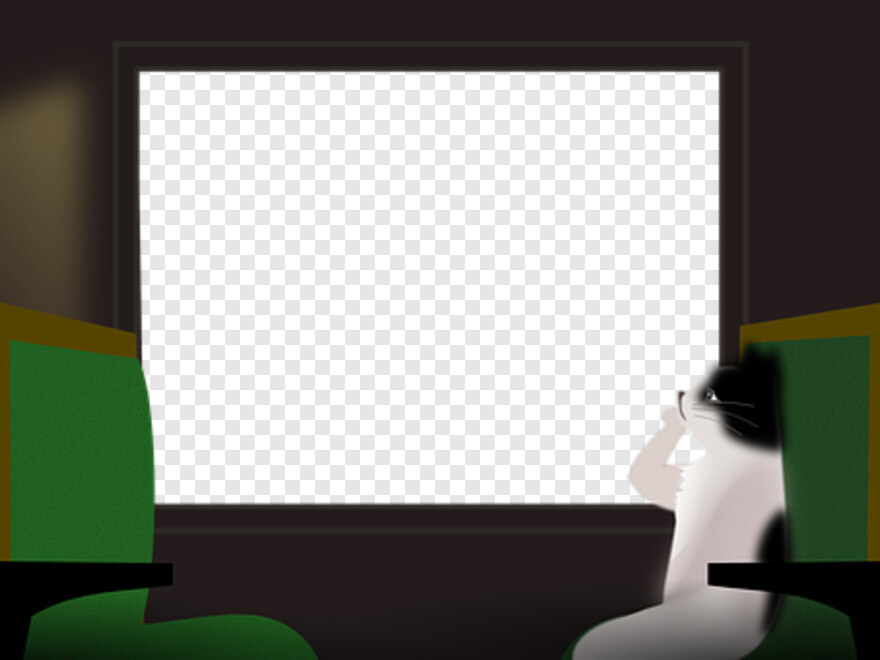
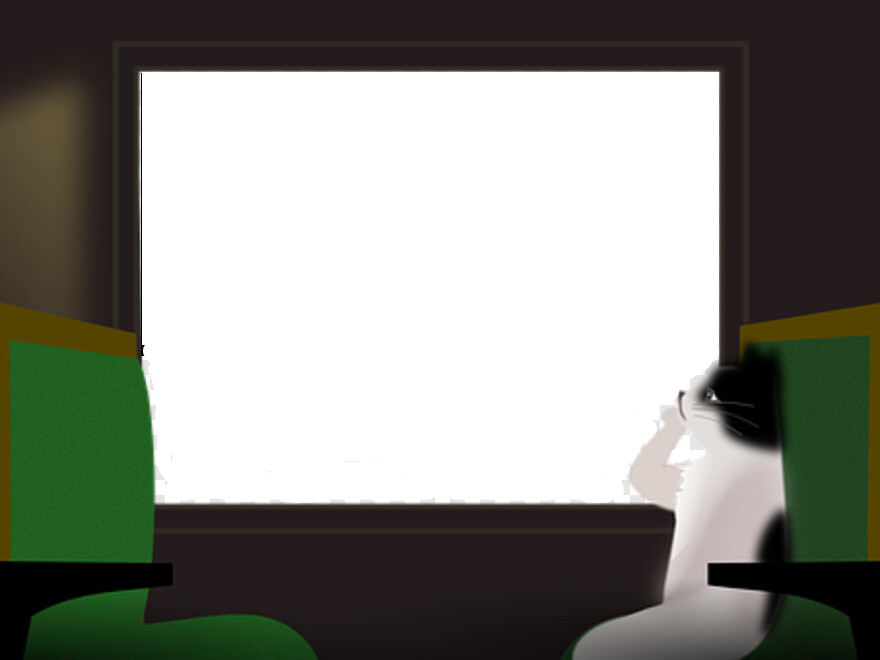
added trees

Changed region(s): [[0.1534, 0.0909, 0.8284, 0.7576], [0.767, 0.6667, 0.7977, 0.697]]

diff --git a/app/app.py b/app/app.py
@@ -1,36 +1,31 @@
 import moviepy.editor as mpy
-import gizeh
 
 WHITE = (255, 255, 255)
 VIDEO_SIZE = (640, 480)
 
-background_path = './assets/background2.png'
+background_path = './assets/background.png'
 background = mpy.ImageClip(background_path). \
     set_position(('center', 0)). \
     resize(width=VIDEO_SIZE[0])
 
+tree_path = './assets/tree1.png'
+tree = mpy.ImageClip(tree_path, transparent=True). \
+    set_position(lambda t: (t * 100, 250)). \
+    resize(width=30)
 
-def make_frame(t):
-    surface = gizeh.Surface(width=VIDEO_SIZE[0], height=VIDEO_SIZE[1])
-    line = gizeh.polyline(points=[(0, 100), (200, 300)], stroke_width=10, stroke=(1, 0, 0))
-    line.draw(surface)
-    return surface.get_npimage(transparent=True)
-
-
-graphics_clip_mask = mpy.VideoClip(lambda t: make_frame(t)[:, :, 3] / 255.0, duration=5, ismask=True)
-graphics_clip = mpy.VideoClip(lambda t: make_frame(t)[:, :, :3],
-                              duration=5).set_mask(graphics_clip_mask)
+ground_path = './assets/ground.jpg'
+ground = mpy.ImageClip(ground_path, transparent=True). \
+    set_position((0, -30)). \
+    resize(width=VIDEO_SIZE[0])
 
 video = mpy.CompositeVideoClip(
     [
-        background,
-        graphics_clip.set_position(
-            ('center', 100)
-        )
+        ground,
+        tree,
+        background
     ],
     size=VIDEO_SIZE). \
     on_color(
     color=WHITE,
     col_opacity=1).set_duration(5)
-
-video.write_videofile('video.mp4', fps=10)
+video.write_videofile('video.mp4', fps=25)
